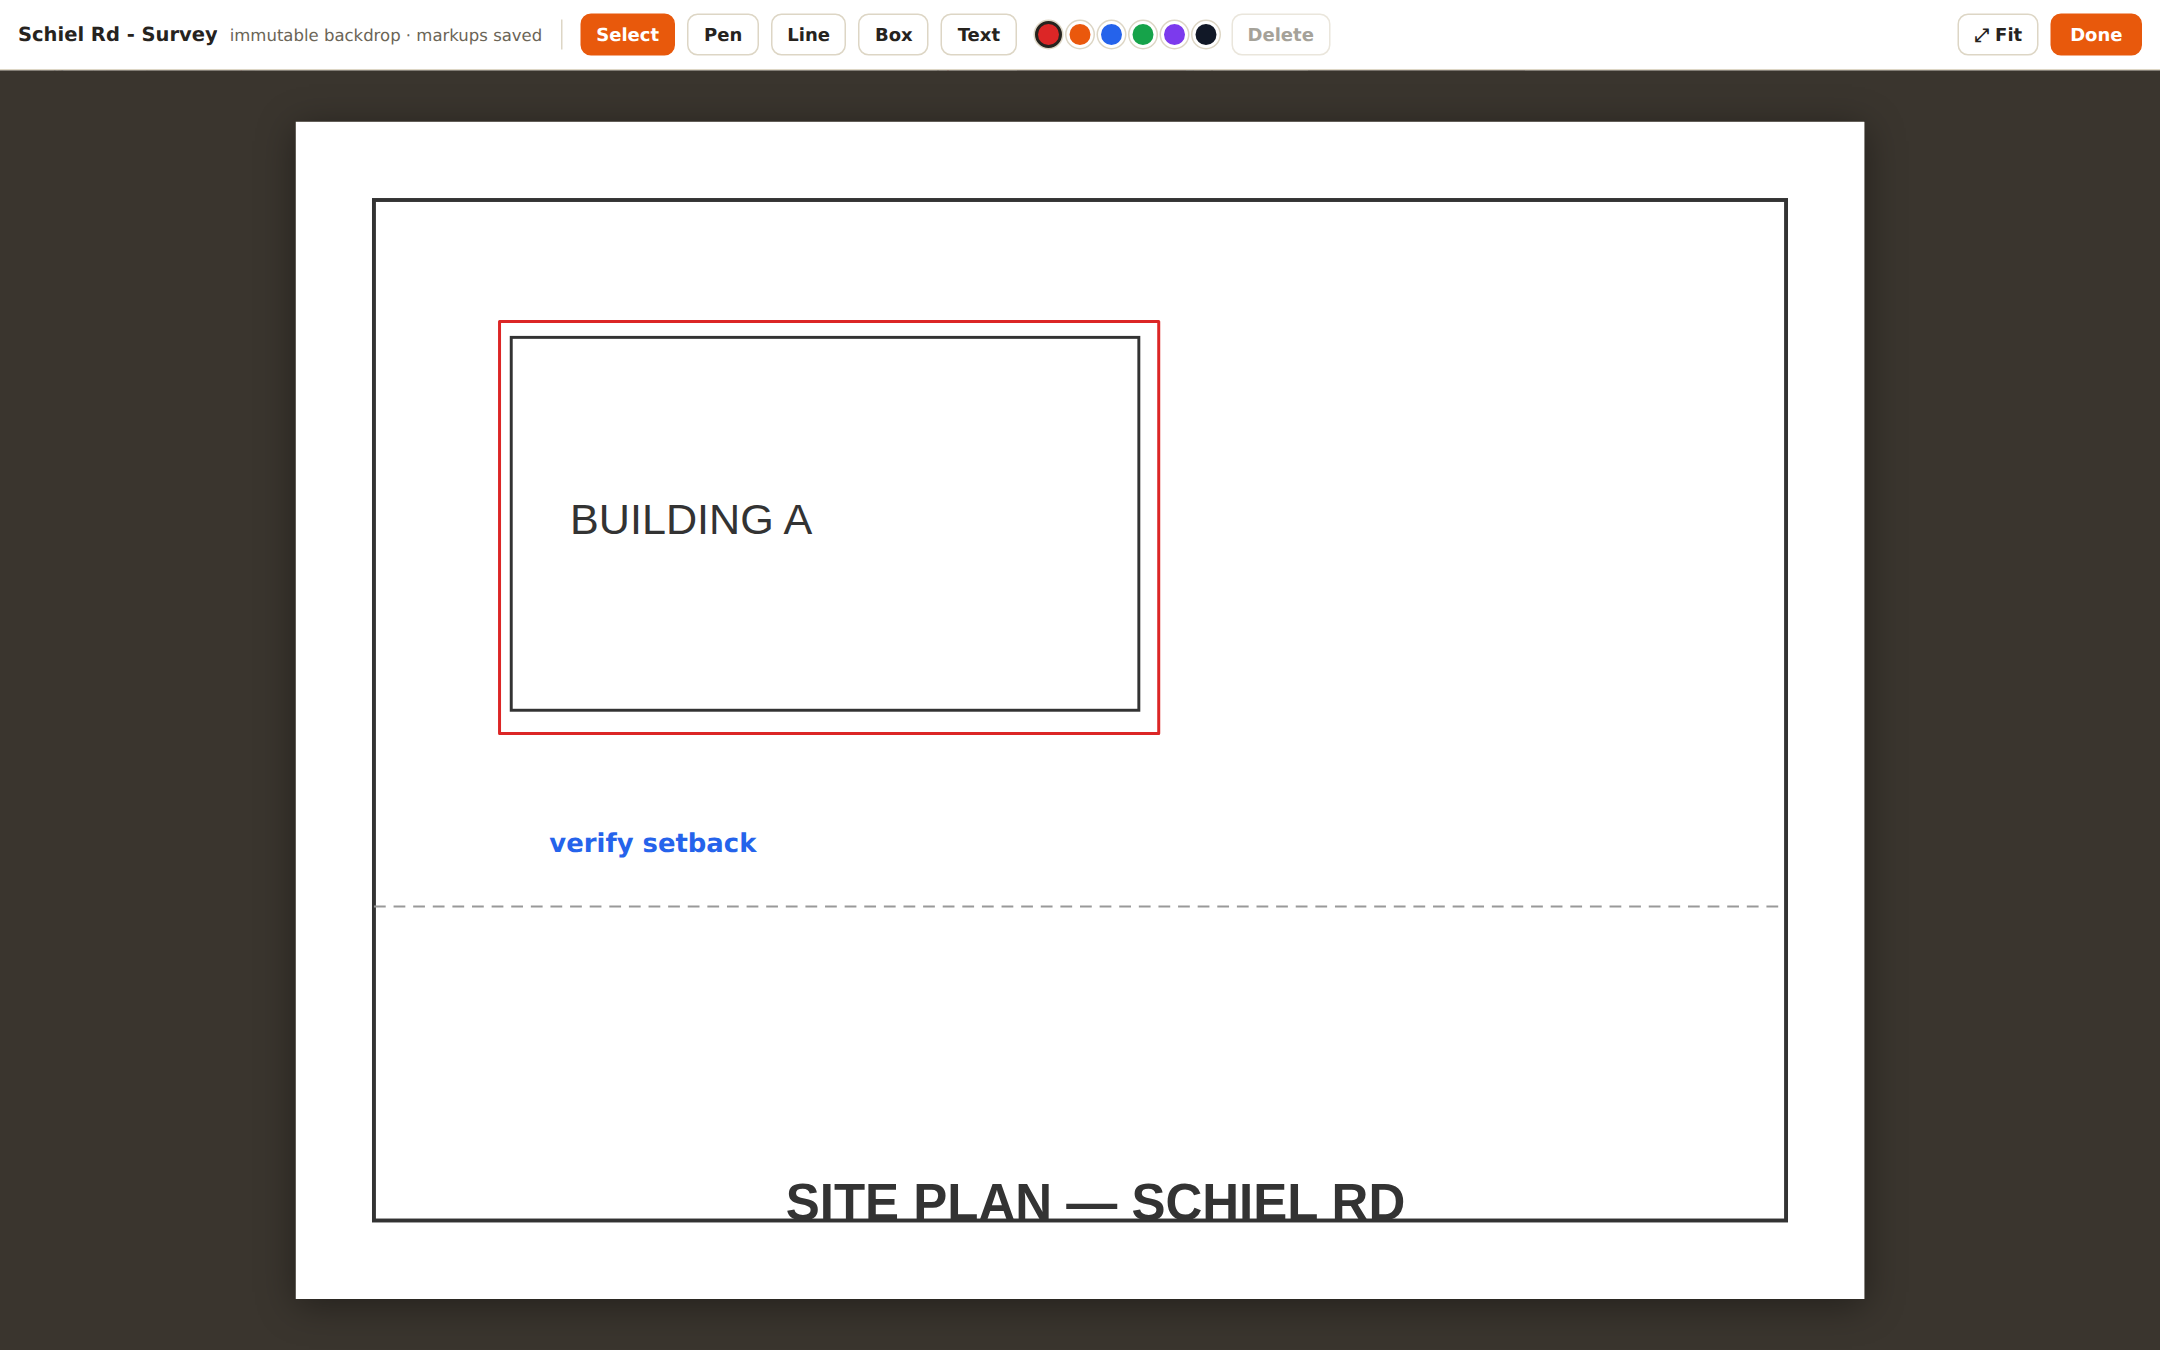
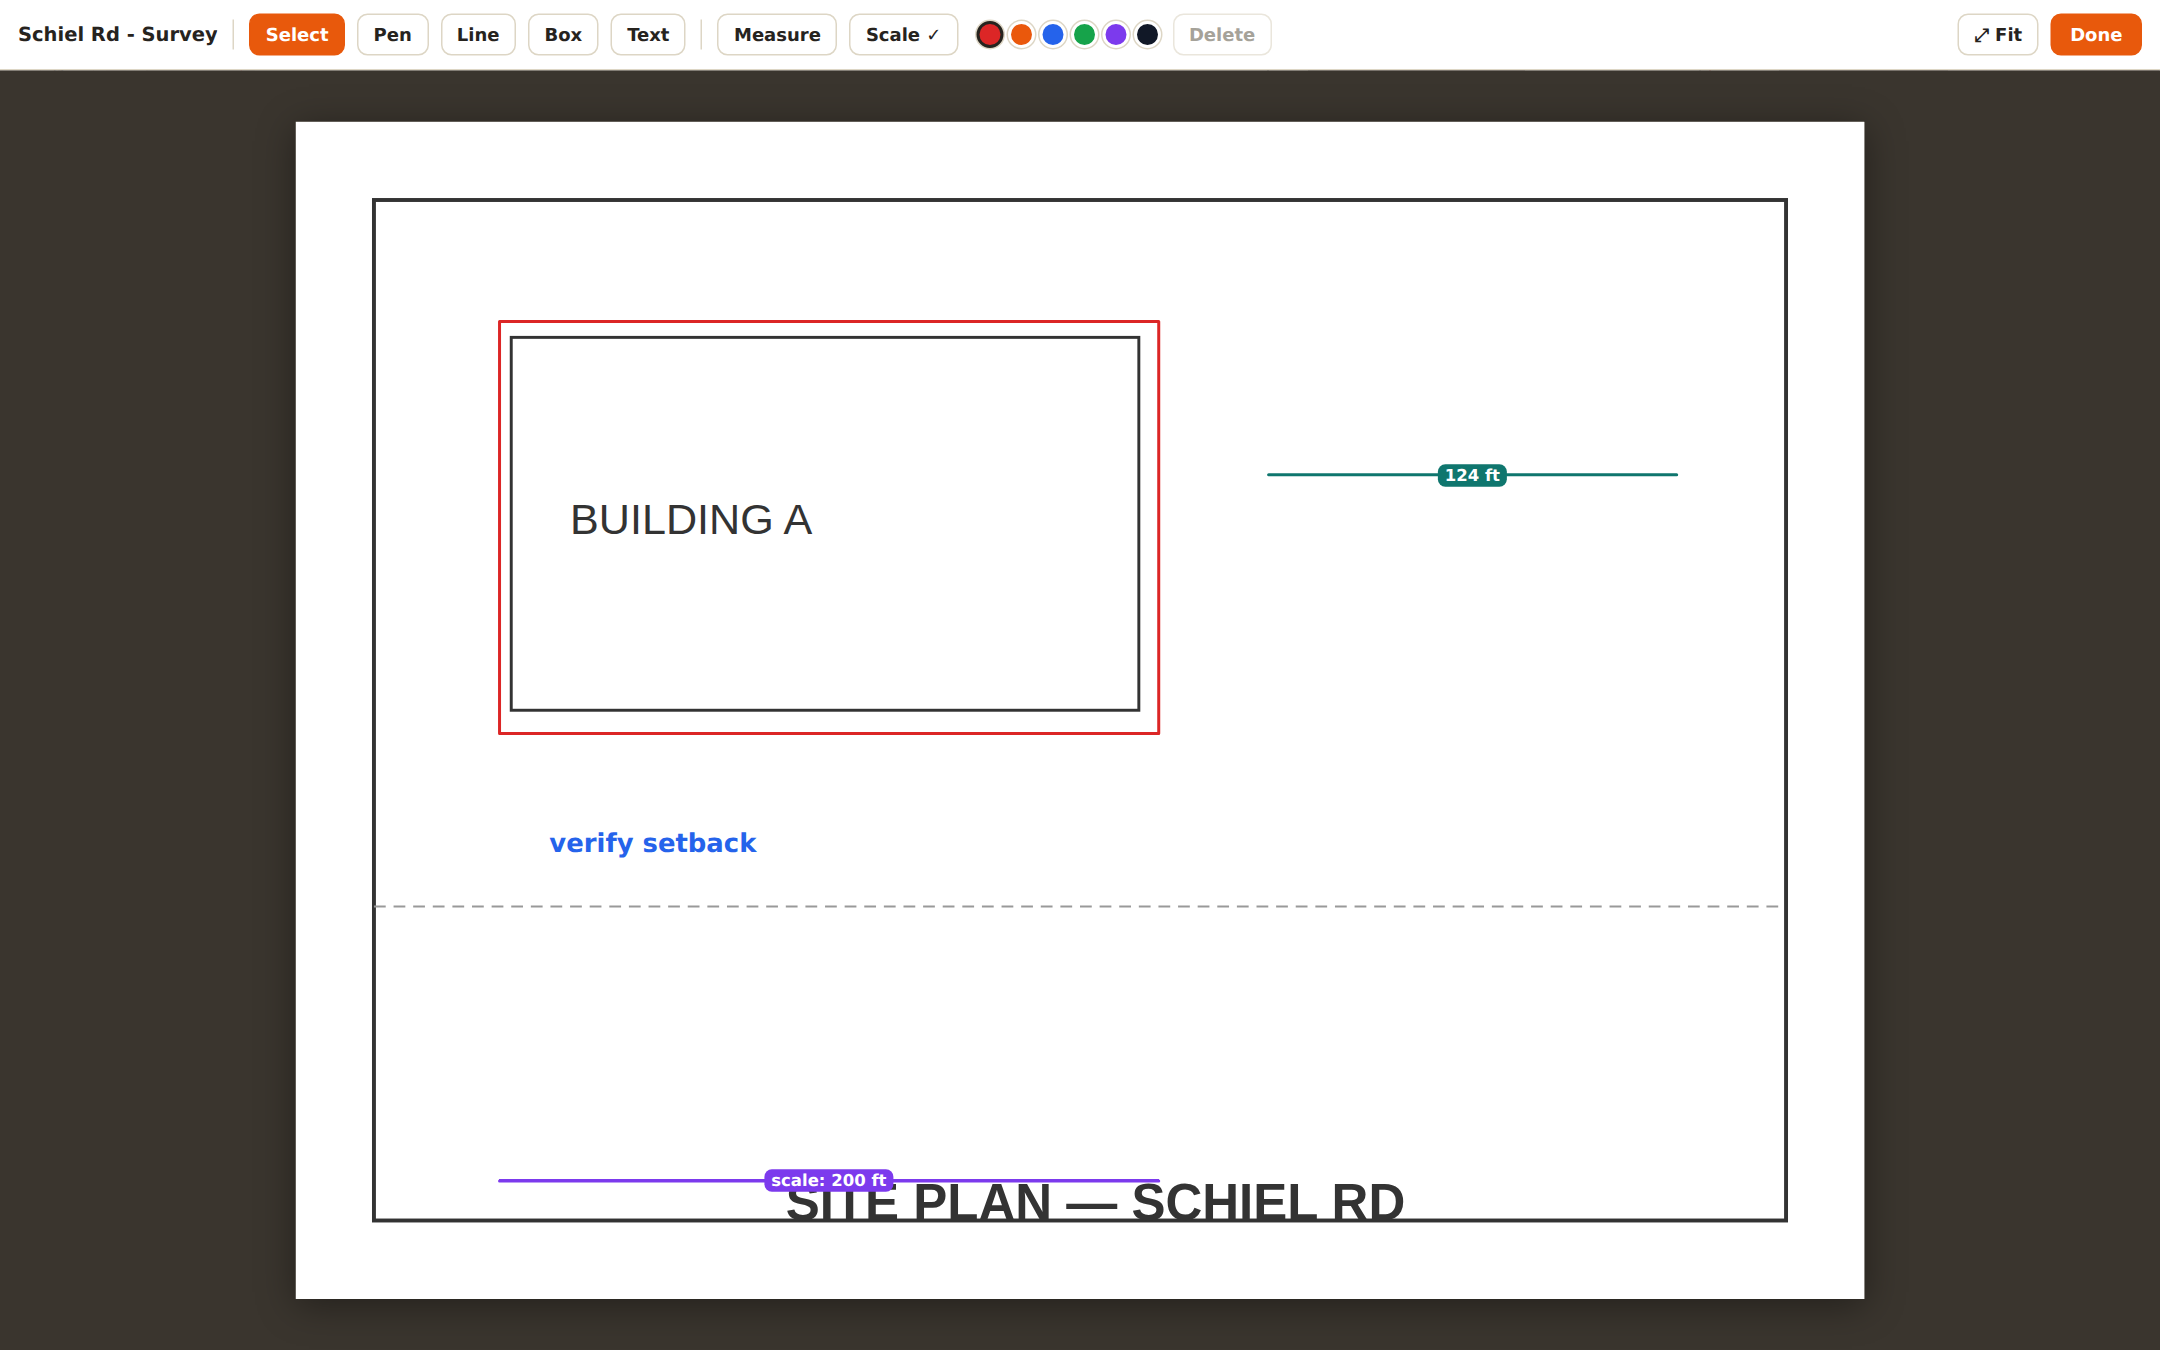
Site Planyr: B67 increment 2c — move/edit markups + calibrated measure (B67 done)
Closes the last deferred B67 limit (richer markup parity); the browser-only tranche is
complete (MVP + 2a + 2b + 2c).

In ParcelDrawing.jsx:
- Move: in Select, press-drag any markup (shape or text) to reposition it (cursor 'move').
  A transient 'moving' overlay avoids a save per pointer-move and commits once on release;
  all pixel-relative, so geometry stays locked to the backdrop.
- Edit text in place (double-click) — preserved.
- Measure + one-time Scale calibration: draw a Scale line and enter its real length →
  feet-per-pixel; the Measure tool then labels each line's true length in feet (live while
  drawing). Calibration is stored as a type:'calib' markup, so it persists through the same
  onSave(markups) channel — no extra plumbing.

Unified pointer handling onto the canvas wrap (handles shapes + text + empty uniformly).
Verified headless: parcel-drawing.png shows a 0.26-wide measure reading 124 ft against a
200-ft/0.42-wide scale. B67 flipped to done; VERIFICATION V9 updated for the cohort.
lint 0 · 138 tests · build green.

https://claude.ai/code/session_01PSTp5hKUeynd9azMHmeoE8

Changed region(s): [[0.0931, 0.0, 0.6204, 0.0622], [0.3412, 0.84, 0.4343, 0.9022], [0.6514, 0.3422, 0.7134, 0.3733]]

diff --git a/src/workspaces/site-planner/components/ParcelDrawing.jsx b/src/workspaces/site-planner/components/ParcelDrawing.jsx
@@ -5,9 +5,10 @@
  * compatible with a later pixel→EPSG:2278 georeference). The backdrop raster is never
  * written back — "editing" here means building your own analysis layer over it.
  *
- * Self-contained: the parent (SitePlanner) owns the persisted drawing record and
- * passes the resolved raster `src`; this component renders + edits the markup layer
- * and calls onSave(markups) as they change. No backend access of its own.
+ * Tools: Select (move/recolour/delete existing markups), Pen, Line, Box, Text, plus a
+ * Measure tool calibrated by a one-time Scale line (draw a line of known length → real
+ * lengths in feet). The calibration is itself a markup (type 'calib'), so it persists
+ * through the same onSave(markups) channel — no extra plumbing.
  */
 import { useEffect, useRef, useState } from "react";
 import { createPortal } from "react-dom";
@@ -16,44 +17,55 @@ const PAL = { ink: "#26231e", muted: "#6b6557", line: "#ddd6c5", paper: "#f6f3ec
 const COLORS = ["#dc2626", "#ea580c", "#2563eb", "#16a34a", "#7c3aed", "#111827"];
 const uid = () => "k" + Math.random().toString(36).slice(2, 9);
 const clamp01 = (v) => Math.max(0, Math.min(1, v));
+const fmtFt = (f) => (f >= 1000 ? `${(f / 1000).toFixed(2)}k ft` : `${f.toFixed(f < 10 ? 1 : 0)} ft`);
 
 export default function ParcelDrawing({ drawing, onSave, onClose, loading = false }) {
   const wrapRef = useRef(null);
   const svgRef = useRef(null);
-  const [tool, setTool] = useState("select");      // select | pen | line | rect | text
+  const [tool, setTool] = useState("select");      // select | pen | line | rect | text | measure | calib
   const [color, setColor] = useState(COLORS[0]);
   const [marks, setMarks] = useState(() => drawing.markups || []);
   const [sel, setSel] = useState(null);            // selected markup id
   const [draft, setDraft] = useState(null);        // in-progress markup
+  const [moving, setMoving] = useState(null);      // { id, pts } live drag of an existing markup
   const [view, setView] = useState({ scale: 1, ox: 0, oy: 0 }); // backdrop placement (screen px)
   const [textEdit, setTextEdit] = useState(null);  // { id } while editing a text markup
   const drag = useRef(null);
   const firstSave = useRef(true);
   const iw = drawing.intrinsic?.w || 1000, ih = drawing.intrinsic?.h || 1000;
 
-  // Persist whenever the markup set settles (parent merges into the site record).
-  // Skip the mount fire so opening a drawing doesn't re-save unchanged markups.
+  // Persist whenever the markup set settles. Skip the mount fire so opening doesn't re-save.
   useEffect(() => { if (firstSave.current) { firstSave.current = false; return; } onSave?.(marks); }, [marks]); // eslint-disable-line react-hooks/exhaustive-deps
 
-  // Fit the backdrop to the viewport on mount / resize.
   const fit = () => {
     const el = wrapRef.current; if (!el) return;
-    const cw = el.clientWidth, ch = el.clientHeight - 0;
-    const s = Math.min(cw / iw, ch / ih) * 0.92;
-    setView({ scale: s, ox: (cw - iw * s) / 2, oy: (ch - ih * s) / 2 });
+    const s = Math.min(el.clientWidth / iw, el.clientHeight / ih) * 0.92;
+    setView({ scale: s, ox: (el.clientWidth - iw * s) / 2, oy: (el.clientHeight - ih * s) / 2 });
   };
   useEffect(() => { fit(); const on = () => fit(); window.addEventListener("resize", on); return () => window.removeEventListener("resize", on); }, []); // eslint-disable-line react-hooks/exhaustive-deps
 
-  // The displayed backdrop rect (screen px) and 0..1 <-> screen helpers.
   const Wd = iw * view.scale, Hd = ih * view.scale;
   const toNorm = (cx, cy) => {
     const r = svgRef.current.getBoundingClientRect();
     return { x: clamp01((cx - r.left) / r.width), y: clamp01((cy - r.top) / r.height) };
   };
+  // Real-world length of a 0..1 segment, via the calibration markup (null if uncalibrated).
+  const calib = marks.find((m) => m.type === "calib");
+  const lenFt = (a, b) => (calib ? Math.hypot((b.x - a.x) * iw, (b.y - a.y) * ih) * calib.ftPerPx : null);
 
-  const commitMarks = (next) => setMarks(next);
-  const addMark = (m) => commitMarks([...marks, m]);
-  const delSel = () => { if (sel) { commitMarks(marks.filter((m) => m.id !== sel)); setSel(null); } };
+  const addMark = (m) => setMarks((cur) => [...cur, m]);
+  const delSel = () => { if (sel) { setMarks((cur) => cur.filter((m) => m.id !== sel)); setSel(null); } };
+
+  // Finish a freshly-drawn Scale line: ask its real length, store/replace the calibration.
+  const calibrateFrom = (line) => {
+    const [a, b] = line.pts;
+    const px = Math.hypot((b.x - a.x) * iw, (b.y - a.y) * ih);
+    if (px < 1) return;
+    const ans = window.prompt("Length of this line in feet (sets the drawing scale):", "100");
+    const feet = parseFloat(ans);
+    if (!feet || feet <= 0) return;
+    setMarks((cur) => [...cur.filter((m) => m.type !== "calib"), { id: uid(), type: "calib", pts: [a, b], feet, ftPerPx: feet / px, color }]);
+  };
 
   const onWheel = (e) => {
     e.preventDefault();
@@ -63,79 +75,76 @@ export default function ParcelDrawing({ drawing, onSave, onClose, loading = fals
     setView((v) => { const ns = Math.max(0.05, Math.min(12, v.scale * f)); const k = ns / v.scale; return { scale: ns, ox: mx - (mx - v.ox) * k, oy: my - (my - v.oy) * k }; });
   };
 
+  // Press on a markup (Select tool) → select + begin moving it.
+  const startMove = (e, m) => {
+    if (tool !== "select") return;
+    e.stopPropagation();
+    setSel(m.id);
+    wrapRef.current?.setPointerCapture?.(e.pointerId);
+    drag.current = { mode: "move", id: m.id, start: toNorm(e.clientX, e.clientY), orig: m.pts };
+  };
   const onDown = (e) => {
     if (e.button !== 0) return;
     const n = toNorm(e.clientX, e.clientY);
-    if (tool === "select") {
-      // pan the backdrop (drawing-space drag)
-      drag.current = { mode: "pan", sx: e.clientX, sy: e.clientY, ox: view.ox, oy: view.oy };
-      setSel(null);
-      return;
-    }
-    if (tool === "text") {
-      const m = { id: uid(), type: "text", pts: [n], color, text: "" };
-      addMark(m); setTextEdit({ id: m.id }); setTool("select");
-      return;
-    }
+    wrapRef.current?.setPointerCapture?.(e.pointerId);
+    if (tool === "select") { drag.current = { mode: "pan", sx: e.clientX, sy: e.clientY, ox: view.ox, oy: view.oy }; setSel(null); return; }
+    if (tool === "text") { const m = { id: uid(), type: "text", pts: [n], color, text: "" }; addMark(m); setTextEdit({ id: m.id }); setTool("select"); return; }
     drag.current = { mode: "draw", type: tool };
     setDraft({ id: uid(), type: tool, color, pts: [n] });
-    e.currentTarget.setPointerCapture?.(e.pointerId);
   };
   const onMove = (e) => {
     const d = drag.current; if (!d) return;
     if (d.mode === "pan") { setView((v) => ({ ...v, ox: d.ox + (e.clientX - d.sx), oy: d.oy + (e.clientY - d.sy) })); return; }
     const n = toNorm(e.clientX, e.clientY);
-    setDraft((dr) => {
-      if (!dr) return dr;
-      if (dr.type === "pen") return { ...dr, pts: [...dr.pts, n] };
-      return { ...dr, pts: [dr.pts[0], n] }; // line / rect: anchor + current
-    });
+    if (d.mode === "move") { const dx = n.x - d.start.x, dy = n.y - d.start.y; const pts = d.orig.map((p) => ({ x: clamp01(p.x + dx), y: clamp01(p.y + dy) })); d.live = pts; setMoving({ id: d.id, pts }); return; }
+    setDraft((dr) => { if (!dr) return dr; if (dr.type === "pen") return { ...dr, pts: [...dr.pts, n] }; return { ...dr, pts: [dr.pts[0], n] }; });
   };
   const onUp = () => {
     const d = drag.current; drag.current = null;
+    if (d?.mode === "move") { if (d.live) setMarks((cur) => cur.map((m) => (m.id === d.id ? { ...m, pts: d.live } : m))); setMoving(null); return; }
     if (d?.mode === "draw" && draft) {
       const ok = draft.type === "pen" ? draft.pts.length > 1 : (draft.pts.length === 2 && (Math.abs(draft.pts[0].x - draft.pts[1].x) > 0.002 || Math.abs(draft.pts[0].y - draft.pts[1].y) > 0.002));
-      if (ok) addMark(draft);
+      if (ok) { if (draft.type === "calib") calibrateFrom(draft); else addMark(draft); }
     }
     setDraft(null);
   };
 
-  // Render one markup as SVG (coords are 0..1; the svg viewBox is 0 0 1 1).
+  // Render one markup as SVG (coords 0..1; viewBox 0 0 1 1). `moving` overrides its points live.
   const renderMark = (m, isSel) => {
-    const sw = isSel ? 3.25 : 2;
-    const common = { stroke: m.color, strokeWidth: sw, fill: "none", vectorEffect: "non-scaling-stroke", strokeLinecap: "round", strokeLinejoin: "round", style: { cursor: tool === "select" ? "pointer" : "crosshair" }, onPointerDown: tool === "select" ? (e) => { e.stopPropagation(); setSel(m.id); } : undefined };
-    if (m.type === "pen" || m.type === "line") {
-      const d = m.pts.map((p, i) => `${i ? "L" : "M"}${p.x},${p.y}`).join(" ");
-      return <path key={m.id} d={d} {...common} />;
+    const pts = moving && moving.id === m.id ? moving.pts : m.pts;
+    const common = { stroke: m.color, strokeWidth: isSel ? 3.25 : 2, fill: "none", vectorEffect: "non-scaling-stroke", strokeLinecap: "round", strokeLinejoin: "round", style: { cursor: tool === "select" ? "move" : "crosshair" }, onPointerDown: (e) => startMove(e, m) };
+    if (m.type === "pen" || m.type === "line" || m.type === "measure" || m.type === "calib") {
+      const d = pts.map((p, i) => `${i ? "L" : "M"}${p.x},${p.y}`).join(" ");
+      return <path key={m.id} d={d} {...common} strokeDasharray={m.type === "calib" ? "0.012 0.008" : undefined} />;
     }
     if (m.type === "rect") {
-      const [a, b] = m.pts; if (!b) return null;
+      const [a, b] = pts; if (!b) return null;
       return <rect key={m.id} x={Math.min(a.x, b.x)} y={Math.min(a.y, b.y)} width={Math.abs(b.x - a.x)} height={Math.abs(b.y - a.y)} {...common} />;
     }
-    return null; // text rendered as a positioned div overlay below
+    return null; // text + measure/calib labels are positioned divs below
   };
 
   const allMarks = draft ? [...marks, draft] : marks;
   const texts = allMarks.filter((m) => m.type === "text");
+  const dimensioned = allMarks.filter((m) => m.type === "measure" || m.type === "calib");
+  const ptsOf = (m) => (moving && moving.id === m.id ? moving.pts : m.pts);
 
-  const tBtn = (id, label) => (
-    <button onClick={() => setTool(id)} title={label}
+  const tBtn = (id, label, hint) => (
+    <button onClick={() => setTool(id)} title={hint || label}
       style={{ padding: "6px 10px", fontSize: 12, fontWeight: 700, borderRadius: 7, cursor: "pointer", fontFamily: "inherit", border: `1px solid ${tool === id ? PAL.accent : PAL.line}`, background: tool === id ? PAL.accent : "#fff", color: tool === id ? "#fff" : PAL.ink }}>{label}</button>
   );
 
-  // Portal to <body> so the full-screen editor escapes the workspace's stacking-context
-  // floor (the shell <main> is z-capped, B66) and its top toolbar isn't hidden behind
-  // the shell header.
   return createPortal((
     <div style={{ position: "fixed", inset: 0, zIndex: 4000, background: "rgba(20,18,15,0.55)", display: "flex", flexDirection: "column", fontFamily: "system-ui, sans-serif" }}>
-      {/* toolbar */}
       <div style={{ flex: "none", display: "flex", alignItems: "center", gap: 8, padding: "9px 12px", background: "#fff", borderBottom: `1px solid ${PAL.line}` }}>
-        <span style={{ fontSize: 13, fontWeight: 800, color: PAL.ink, maxWidth: 280, overflow: "hidden", textOverflow: "ellipsis", whiteSpace: "nowrap" }}>{drawing.name || "Drawing"}</span>
-        <span style={{ fontSize: 11, color: PAL.muted }}>immutable backdrop · markups saved</span>
-        <span style={{ width: 1, height: 20, background: PAL.line, margin: "0 4px" }} />
-        {tBtn("select", "Select")}{tBtn("pen", "Pen")}{tBtn("line", "Line")}{tBtn("rect", "Box")}{tBtn("text", "Text")}
+        <span style={{ fontSize: 13, fontWeight: 800, color: PAL.ink, maxWidth: 220, overflow: "hidden", textOverflow: "ellipsis", whiteSpace: "nowrap" }}>{drawing.name || "Drawing"}</span>
+        <span style={{ width: 1, height: 20, background: PAL.line, margin: "0 2px" }} />
+        {tBtn("select", "Select", "Select, drag to move, recolour or delete a markup")}{tBtn("pen", "Pen")}{tBtn("line", "Line")}{tBtn("rect", "Box")}{tBtn("text", "Text")}
+        <span style={{ width: 1, height: 20, background: PAL.line, margin: "0 2px" }} />
+        {tBtn("measure", "Measure", calib ? `Measure lengths (scale set: ${fmtFt(calib.feet)} ref)` : "Measure lengths — set the scale first")}
+        {tBtn("calib", calib ? "Scale ✓" : "Scale", "Set the drawing scale: draw a line of known length, then enter its feet")}
         <span style={{ display: "flex", gap: 3, marginLeft: 4 }}>
-          {COLORS.map((c) => <button key={c} onClick={() => { setColor(c); if (sel) commitMarks(marks.map((m) => m.id === sel ? { ...m, color: c } : m)); }} title={c}
+          {COLORS.map((c) => <button key={c} onClick={() => { setColor(c); if (sel) setMarks((cur) => cur.map((m) => (m.id === sel ? { ...m, color: c } : m))); }} title={c}
             style={{ width: 18, height: 18, borderRadius: 99, cursor: "pointer", background: c, border: color === c ? `2px solid ${PAL.ink}` : "2px solid #fff", boxShadow: "0 0 0 1px " + PAL.line }} />)}
         </span>
         <button onClick={delSel} disabled={!sel} title="Delete selected markup"
@@ -145,30 +154,37 @@ export default function ParcelDrawing({ drawing, onSave, onClose, loading = fals
         <button onClick={onClose} title="Close (markups are saved)" style={{ padding: "6px 12px", fontSize: 12, fontWeight: 700, borderRadius: 7, cursor: "pointer", fontFamily: "inherit", border: `1px solid ${PAL.accent}`, background: PAL.accent, color: "#fff" }}>Done</button>
       </div>
 
-      {/* canvas */}
-      <div ref={wrapRef} onWheel={onWheel} style={{ position: "relative", flex: 1, minHeight: 0, overflow: "hidden", background: "#3a352e", touchAction: "none", cursor: tool === "select" ? "grab" : "crosshair" }}>
+      <div ref={wrapRef} onWheel={onWheel} onPointerDown={onDown} onPointerMove={onMove} onPointerUp={onUp} onPointerLeave={onUp}
+        style={{ position: "relative", flex: 1, minHeight: 0, overflow: "hidden", background: "#3a352e", touchAction: "none", cursor: tool === "select" ? "grab" : "crosshair" }}>
         {drawing.src ? (
           <>
             <img src={drawing.src} alt={drawing.name} draggable={false}
               style={{ position: "absolute", left: view.ox, top: view.oy, width: Wd, height: Hd, userSelect: "none", pointerEvents: "none", boxShadow: "0 4px 24px rgba(0,0,0,0.4)", background: PAL.paper }} />
             <svg ref={svgRef} viewBox="0 0 1 1" preserveAspectRatio="none"
-              onPointerDown={onDown} onPointerMove={onMove} onPointerUp={onUp}
               style={{ position: "absolute", left: view.ox, top: view.oy, width: Wd, height: Hd }}>
               {allMarks.map((m) => renderMark(m, m.id === sel))}
             </svg>
+            {/* measure / scale length labels at each segment midpoint */}
+            {dimensioned.map((m) => {
+              const pts = ptsOf(m); if (!pts || pts.length < 2) return null;
+              const left = view.ox + ((pts[0].x + pts[1].x) / 2) * Wd, top = view.oy + ((pts[0].y + pts[1].y) / 2) * Hd;
+              const ft = lenFt(pts[0], pts[1]);
+              const txt = m.type === "calib" ? (m.feet ? `scale: ${fmtFt(m.feet)}` : "scale…") : ft != null ? fmtFt(ft) : "set scale →";
+              return <div key={"L" + m.id} onPointerDown={(e) => startMove(e, m)}
+                style={{ position: "absolute", left, top, transform: "translate(-50%,-50%)", fontSize: 11, fontWeight: 700, color: "#fff", background: m.type === "calib" ? "#7c3aed" : (ft != null ? "#0f766e" : "#b45309"), padding: "1px 5px", borderRadius: 5, whiteSpace: "nowrap", cursor: tool === "select" ? "move" : "crosshair", pointerEvents: "auto" }}>{txt}</div>;
+            })}
             {/* text markups as positioned, zoom-scaled divs */}
             {texts.map((m) => {
-              const left = view.ox + m.pts[0].x * Wd, top = view.oy + m.pts[0].y * Hd;
+              const pts = ptsOf(m); const left = view.ox + pts[0].x * Wd, top = view.oy + pts[0].y * Hd;
               const editing = textEdit?.id === m.id;
               return editing ? (
                 <input key={m.id} autoFocus defaultValue={m.text}
-                  onBlur={(e) => { commitMarks(marks.map((x) => x.id === m.id ? { ...x, text: e.target.value } : x).filter((x) => x.type !== "text" || x.text.trim() || x.id !== m.id)); setTextEdit(null); }}
+                  onBlur={(e) => { const v = e.target.value; setMarks((cur) => cur.map((x) => (x.id === m.id ? { ...x, text: v } : x)).filter((x) => x.type !== "text" || x.text.trim() || x.id !== m.id)); setTextEdit(null); }}
                   onKeyDown={(e) => { if (e.key === "Enter") e.target.blur(); }}
                   style={{ position: "absolute", left, top, fontSize: Math.max(11, 0.022 * Hd), color: m.color, fontWeight: 700, border: `1px dashed ${m.color}`, background: "rgba(255,255,255,0.85)", padding: "1px 3px", fontFamily: "system-ui" }} />
               ) : (
-                <div key={m.id} onPointerDown={(e) => { if (tool === "select") { e.stopPropagation(); setSel(m.id); } }}
-                  onDoubleClick={() => setTextEdit({ id: m.id })}
-                  style={{ position: "absolute", left, top, fontSize: Math.max(11, 0.022 * Hd), color: m.color, fontWeight: 700, cursor: tool === "select" ? "pointer" : "crosshair", whiteSpace: "nowrap", textShadow: "0 1px 2px rgba(255,255,255,0.8)", outline: m.id === sel ? `1px dashed ${m.color}` : "none", padding: "1px 2px" }}>{m.text || "…"}</div>
+                <div key={m.id} onPointerDown={(e) => startMove(e, m)} onDoubleClick={() => setTextEdit({ id: m.id })}
+                  style={{ position: "absolute", left, top, fontSize: Math.max(11, 0.022 * Hd), color: m.color, fontWeight: 700, cursor: tool === "select" ? "move" : "crosshair", whiteSpace: "nowrap", textShadow: "0 1px 2px rgba(255,255,255,0.8)", outline: m.id === sel ? `1px dashed ${m.color}` : "none", padding: "1px 2px" }}>{m.text || "…"}</div>
               );
             })}
           </>

diff --git a/VERIFICATION.md b/VERIFICATION.md
@@ -138,6 +138,10 @@ was never clicked" quietly ships broken.
   **"Pick a sheet"** dialog should list every page — choose one. Draw with **Pen / Line / Box /
   Text**, recolour, **Select** + **Delete**, **zoom (wheel) + pan (drag in Select)**, click
   **Done**, reopen the drawing, then **reload the page**.
+- **Richer markup (increment 2c) — also verify:** in **Select**, **drag an existing markup** to
+  reposition it (cursor shows move); **double-click a Text** markup to edit it. Click **Scale**,
+  draw a line along a known dimension, enter its length in feet → then **Measure**: draw lines and
+  confirm they label the **real length in feet** (teal chip); the scale + markups persist on reload.
 - **Expect:** the **chosen** sheet rasterizes as an **immutable backdrop** (named "<file> — p.N");
   markups stay **locked to the drawing** through zoom/pan (stored pixel-relative); multiple
   drawings list under the parcel; markups **persist** across reopen + reload (signed in, same

diff --git a/BACKLOG.md b/BACKLOG.md
@@ -255,7 +255,7 @@ Systematic read-through of the whole codebase (5 parallel audits, each finding v
 > Assessment 2026-06-16 (branch `claude/laughing-babbage-hrxgct`): re-verified the safe mitigation is in place — `geoWrapRef` paints `PAL.paper` (`SitePlanner.jsx`), the aerial tile layer runs `keepBuffer:4`, and the basemap `setView` is animation-disabled. **Deliberately NOT changing further here:** the only remaining lever (re-enabling zoom animation or double-buffering the tile swap) is exactly what was disabled on purpose — with the SVG overlay re-`setView`'d every frame, a basemap zoom animation would desync the aerial from the drawn geometry mid-animation. That's a regression risk that can only be judged against a live repro (and the flash itself can't be reproduced headless). So B65 stays `[ ]` as "mitigated; remaining fix needs a live repro to justify the risk," not as new blind code.
 
 ### B67 — Attach & mark up a site-plan drawing on a parcel `[Site Planner]` (feature)
-`[ ]` Let the user attach an existing site plan (PDF or JPEG; CAD/DWG out of scope for v1) to a selected parcel and draw on top of it with the full existing markup/element toolset, saved as a persistent, named file tied to that parcel. The pattern mirrors Document Review's **immutable-backdrop + editable-layers-above** model and its Supabase persistence — reuse those patterns, don't stand up a parallel drawing engine or store. (Related to but distinct from B14, which files drawings under *projects* in the Document Review workspace; this attaches to a *parcel* in the Site Planner and marks up with the planner's own tools.)
+`[x]` **Done 2026-06-16 (browser-only tranche complete: MVP + increments 2a/2b/2c).** Let the user attach an existing site plan (PDF or JPEG; CAD/DWG out of scope for v1) to a selected parcel and draw on top of it with the full existing markup/element toolset, saved as a persistent, named file tied to that parcel. The pattern mirrors Document Review's **immutable-backdrop + editable-layers-above** model and its Supabase persistence — reuse those patterns, don't stand up a parallel drawing engine or store. (Related to but distinct from B14, which files drawings under *projects* in the Document Review workspace; this attaches to a *parcel* in the Site Planner and marks up with the planner's own tools.)
 - **Entry point.** After clicking a parcel (e.g. the Schiel Road site), offer "Attach drawing" / "Open markup." Allow **multiple drawings per parcel** (a parcel may have several plan sheets).
 - **Backdrop = immutable layer.** The imported PDF/JPEG is the locked backdrop (architecture invariant: imported drawing = immutable; user content lives on editable layers above). PDF → rasterize the chosen page to an image for display; if multipage, let the user pick the page.
 - **Markup layer = editable.** Reuse the current `els` + `markups` suite (lines, polylines, polygons, text, dimensions, freehand — whatever the suite already supports), not a separate drawing engine.
@@ -267,6 +267,7 @@ Systematic read-through of the whole codebase (5 parallel audits, each finding v
 > Progress 2026-06-16 (branch `claude/laughing-babbage-hrxgct`): **browser-only MVP shipped + screenshot-verified.** Select a parcel → Parcel panel → **"＋ Attach a drawing (PDF / JPG)"** → it rasterizes the file (reusing the B72 `openOverlayFile` engine — PDF.js via dynamic import, off the main thread; image path too) and opens a full-screen **`ParcelDrawing`** markup modal: the imported file is an **immutable backdrop** and you draw on an editable layer above it with **Select / Pen / Line / Box / Text**, a colour picker, delete, fit/zoom/pan. **Markups are stored PIXEL-RELATIVE (0..1)** of the backdrop's intrinsic dims, so zoom/pan can't corrupt them (verified: a seeded rect + text land exactly on the backdrop). **Multiple drawings per parcel** (listed in the panel, open/delete). **Persistence:** additive Site Model field **`parcelDrawings`** (`SITE_MODEL_VERSION` 4→5, `parcelDrawingsOf` selector, `slimForCloud` strips the raster like the overlay/underlay); saved via a `saveSite` MERGE + debounced cloud push, so it needs no new wiring through the autosave path and **existing sites are unaffected** (empty field = no-op). **Forward-compat:** the backdrop's intrinsic dims (PDF points) ride with each record for a future pixel→EPSG:2278 transform. The modal **portals to `<body>`** so its toolbar clears the shell header (B66 stacking floor). **lint 0 · 56 tests (incl. a new parcelDrawings test) · build green.** ⏳ **Deferred to a focused increment 2 (B67 stays `[ ]`):** (a) the **multipage page-picker** (page 1 only today; `pageCount` is stored); (b) **Supabase Storage backing** of the source file so the raster reloads cross-device (today the raster is local + stripped from the cloud row → a re-login shows a "re-attach to view; markups saved" placeholder, exactly like B72's first increment; **markups always persist**); (c) richer markup parity with the planner's full suite (dimensions/measure, freehand smoothing) and on-backdrop markup editing/move (today: draw + select + delete + recolour). Runtime-verified headless via `ui-audit/screens/parcel-drawing.png`; please also try it on planyr.io with a real PDF.
 > Progress 2026-06-16 (increment 2a — page-picker, branch `claude/laughing-babbage-hrxgct`): **multi-page PDFs now prompt a "Pick a sheet" dialog** at attach (lists all `pageCount` pages; the chosen sheet rasterizes via the B72 `rasterizePage`, reusing the already-loaded PDF for page 1; the record is named `"<file> — p.N"`). The PDF proxy is kept alive only for the pick then destroyed (no leak). Single-page PDFs and images skip the dialog. Removes limit (a). lint 0 · 138 tests · build green.
 > Progress 2026-06-16 (increment 2b — Storage backing, branch `claude/laughing-babbage-hrxgct`): **the source file now backs the backdrop in Supabase Storage for cross-device reload.** On attach, the original PDF/image is uploaded (background, fallback-safe) to the existing private `doc-review-files` bucket at `<uid>/parcel-drawings/<siteId>/<drawingId>.<ext>` (new `uploadParcelDrawingFile` in `overlayStorage.js`, uid-first so the existing Storage RLS holds); the returned `storageKey`+`ext` persist on the record (kept through `slimForCloud`, which only strips the raster). Opening a drawing whose local raster is missing (cross-device — the cloud row's `src` was stripped) **rehydrates** it: download bytes → `rasterizeStoredPdf(bytes, page)` for PDFs, or `downloadOverlayDataUrl` for images, with a "Loading the drawing from the cloud…" state. Delete now also best-effort-removes the stored object. All fallback-safe (logged-out / >50 MB / error → keeps the local raster, no regression). Mirrors B72's overlay Storage-backing exactly. This **closes limit (b)**. Remaining for B67: (c) richer markup parity (dimensions/measure, move/edit existing markups). lint 0 · 138 tests · build green; **cohort to confirm the cross-device round-trip live** (`VERIFICATION.md` V9) — can't be exercised headless (needs a signed-in session + Storage).
+> Progress 2026-06-16 (increment 2c — richer markup, branch `claude/laughing-babbage-hrxgct`): **closes limit (c); B67 → done.** In `ParcelDrawing.jsx`: (1) **move** any existing markup — in Select, press-and-drag a shape/text to reposition it (cursor shows ⤧move; a transient `moving` overlay avoids a save per pointer-move, commits once on release, pixel-relative throughout); (2) **edit text** in place (double-click — preserved); (3) a **Measure tool + one-time Scale calibration**: draw a **Scale** line and enter its real length → sets feet-per-pixel; the **Measure** tool then labels each line's true length in feet (teal chip), live while drawing. The calibration is stored as a `type:'calib'` markup, so it **persists through the same `onSave(markups)` channel** — no extra plumbing. Verified headless (`ui-audit/screens/parcel-drawing.png`: a 0.26-wide measure line reads **124 ft** against a 200-ft / 0.42-wide scale ✓). Optional future niceties (not blocking): resize/rotate handles on a selected shape. lint 0 · 138 tests · build green.
 
 ### B69 — Paving "+" over-increments from a single-loaded bay `[Site Planner]` (bug)
 `[x]` Repro: start from the ~42–47′ paving cross-section (one parking row + one drive aisle — a single-loaded bay = parking on one side of the aisle only) and click "+". **Observed:** it added two parking rows plus another drive aisle (a full double-loaded module). **Expected:** "+" adds exactly one parking row — from a single-loaded bay it converts to double-loaded (parking both sides of the existing aisle, ~60–65′); a new drive aisle is inserted only once the current aisle is already double-loaded; each click steps by one row, never a two-row module. (Filed from a parallel chat as provisional "NEW-1"; minted **B69** here — B67/B68 were already taken on `main`.)